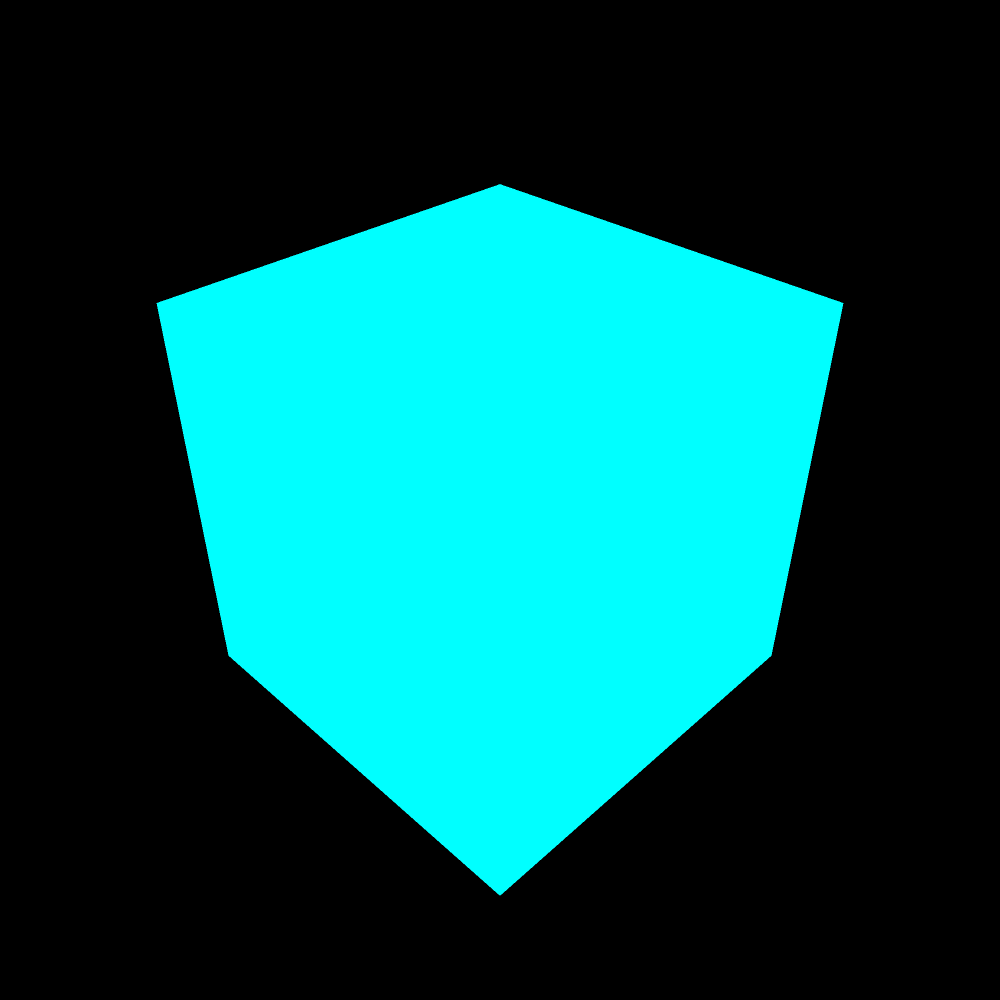
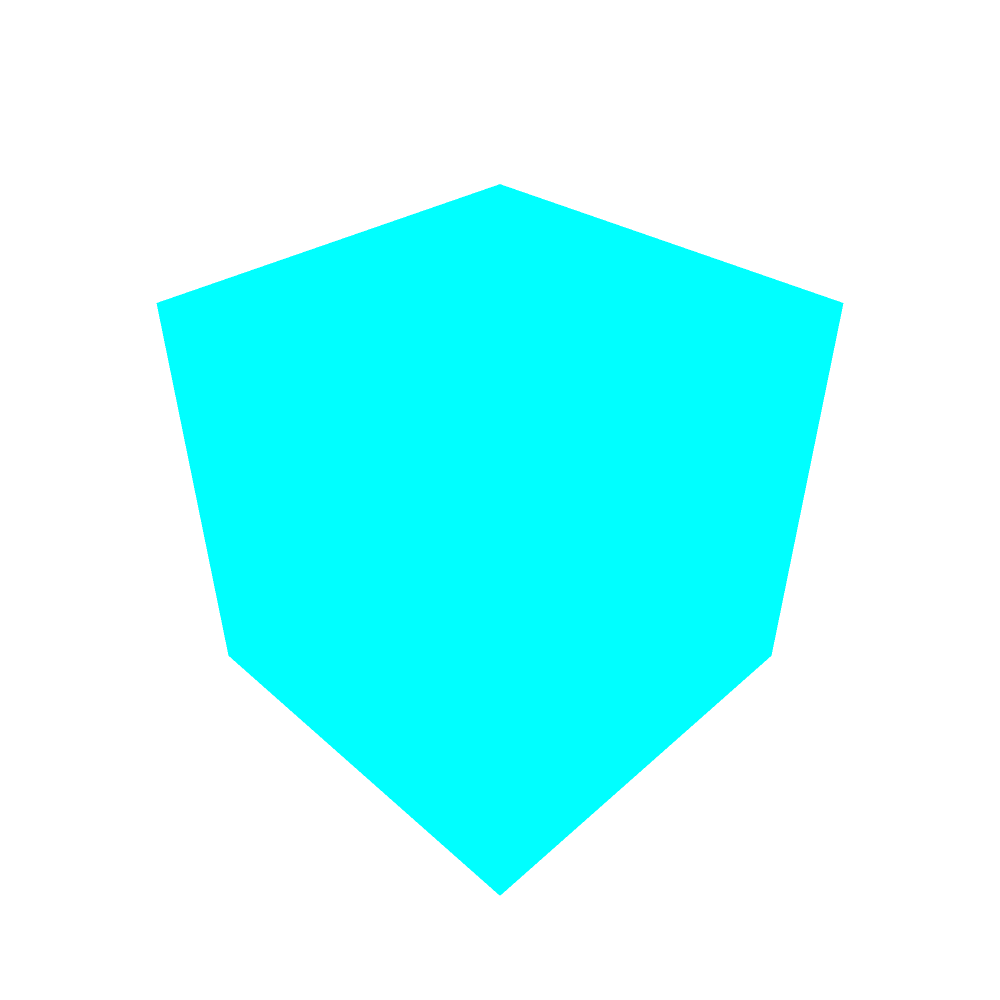
`0.0.4` Added basic scene options, color, transparency, animated

diff --git a/src/class/render.ts b/src/class/render.ts
@@ -16,19 +16,31 @@ export interface RenderOptions {
     frames?: number,
     delay?: number,
     repeat?: boolean
+  },
+  renderOptions?: {
+    port?: number,
+    background?: {
+      transparent?: boolean;
+      color?: number;
+    }
   }
 }
 
 export class Render {
   private readonly verbose: boolean = process.env.DEV === "true";
+  private readonly screenshotHeight = 1000;
+  private readonly screenshotWidth = this.screenshotHeight;
+  private readonly outputDir: string = path.join(__dirname, "../../output/");
+
   private doGIF: boolean = false;
   private GIFframes: number = 60;
   private GIFDelay: number = 5;
   private GIFRepeat: boolean = true;
-  private readonly screenshotHeight = 1000;
-  private readonly screenshotWidth = this.screenshotHeight;
 
-  private readonly outputDir: string = path.join(__dirname, "../../output/");
+  private background: number = 0x000000;
+  private isTransparent: boolean = false;
+
+  private port: number = 40;
 
   constructor() {
     this.checkDir(this.outputDir);
@@ -43,11 +55,16 @@ export class Render {
         if (options.gifOptions.delay) this.GIFDelay = options.gifOptions.delay;
         if (options.gifOptions.repeat) this.GIFRepeat = options.gifOptions.repeat;
       }
-    }
 
-    else {
-      this.doGIF = false;
-    }
+      if (options.renderOptions) {
+        if (options.renderOptions.port) this.port = options.renderOptions.port;
+        if (options.renderOptions.background) {
+          if (options.renderOptions.background.color !== undefined) this.background = options.renderOptions.background.color;
+          if (options.renderOptions.background.transparent !== undefined) this.isTransparent = options.renderOptions.background.transparent;
+        }
+      }
+
+    } else this.doGIF = false;
 
     this.run();
   }
@@ -60,20 +77,22 @@ export class Render {
   }
 
   private async run() {
-    const port: number = 40;
-
     /* Launch server */
     const server = http.createServer((req: http.IncomingMessage, res: http.ServerResponse) => handler(req, res));
-    server.listen(port, async () => {
+    server.listen(this.port, async () => {
       
       /* Launch pupeteer with WebGL support in Linux */
-      const browser = new Browser({ port: port, verbose: true });
+      const browser = new Browser({ port: this.port, verbose: true, headless: true });
       await browser.launch();
-      await browser.loadPage(`/src/html/cube?animated=${this.doGIF}`);
-      await browser.evaluatePage();
+      await browser.loadPage(`/src/page`);
+      await browser.evaluatePage({ 
+        animated: this.doGIF, 
+        background: this.background, 
+        transparent: this.isTransparent 
+      });
 
       if (this.doGIF) await this.renderAsGIF(browser);
-      else if (!this.doGIF) await this.renderAsPNG(browser);
+      else await this.renderAsPNG(browser);
 
       browser.stop();
       server.close();
@@ -87,6 +106,7 @@ export class Render {
     const encoder = new GIFEncoder(this.screenshotWidth, this.screenshotHeight);
     encoder.start();
     encoder.setRepeat(this.GIFRepeat === true ? 0 : -1);
+    encoder.setTransparent(0);
     encoder.setDelay(this.GIFDelay);
 
     const canvas = Canvas.createCanvas(this.screenshotWidth, this.screenshotHeight);
@@ -105,7 +125,9 @@ export class Render {
         canvas.width, canvas.height	// dWidth, dHeight
       );
 
-      encoder.addFrame(context as CanvasRenderingContext2D);
+      // remove white pixel when transparent is enabled
+      if (this.isTransparent) encoder.addFrame(this.readdTransparency(context) as CanvasRenderingContext2D);
+      else encoder.addFrame(context as CanvasRenderingContext2D);
     }
 
     encoder.finish();
@@ -116,8 +138,38 @@ export class Render {
 
   private async renderAsPNG(browser: Browser) {
     const outputPath: string = path.join(this.outputDir, "file.png");
-    await browser.takeScreenshot(outputPath);
+
+    if (!this.isTransparent) await browser.takeScreenshot(outputPath);
+    else {
+      const canvas = Canvas.createCanvas(this.screenshotWidth, this.screenshotHeight);
+      let context = canvas.getContext('2d');
+      const screenshot = await Canvas.loadImage(await browser.takeScreenshot());
+      
+      context.drawImage(
+        screenshot,				    			// image
+        0, canvas.height,           // sx, sy
+        canvas.width, canvas.width,	// sWidth, sHeight
+        0, 0,												// dx, dy
+        canvas.width, canvas.height	// dWidth, dHeight
+      );
+
+      context = this.readdTransparency(context);
+      fs.writeFileSync(outputPath, canvas.toBuffer('image/png'));
+    }
 
     if (this.verbose) console.log(`${success}PNG file generated: ${outputPath}`);
+  }
+
+  private readdTransparency(context: Canvas.CanvasRenderingContext2D): Canvas.CanvasRenderingContext2D {
+    let screenData: Canvas.ImageData = context.getImageData(0, 0, this.screenshotWidth, this.screenshotHeight);
+    let pix: Uint8ClampedArray = screenData.data;
+    
+    for (let i:number = 0, n = pix.length; i < n; i+=4) {
+      let r: number = pix[i]; let g: number = pix[i+1]; let b: number = pix[i+2];
+      if (r === 255 && g === 255 && b === 255) pix[i+3] = 0;
+    }
+
+    context.putImageData(screenData, 0, 0);
+    return context;
   }
 }

diff --git a/src/class/browser.ts b/src/class/browser.ts
@@ -1,12 +1,7 @@
 import puppeteer, { Browser as PBrowser, ConsoleMessage, HTTPResponse, Page } from "puppeteer";
 import { err, info, warning } from "utils/chalk";
-import fs from "fs";
-
-/*
- * Typescript moment (colorized):
- */
-let window: any;
-let performance: any;
+import { waitUntil } from "evaluate/waitUntil";
+import { setTHREEOptions } from "evaluate/setTHREEOptions";
 
 export class Browser {
   private readonly networkTimeout: number = 6000; 
@@ -29,10 +24,10 @@ export class Browser {
    * 
    * @param options 
    */
-  constructor(options: {port: number, headless?: boolean, verbose?: boolean}) {
+  constructor(options: { port: number, headless?: boolean, verbose?: boolean }) {
     this.port = options.port;
-    if (options.headless) this.headless = options.headless;
-    if (options.verbose) this.verbose = options.verbose;
+    if (options.headless !== undefined) this.headless = options.headless;
+    if (options.verbose !== undefined) this.verbose = options.verbose;
   }
 
   /**
@@ -100,13 +95,15 @@ export class Browser {
    * @returns {@Browser}
    */
   public async loadPage(path: string, loop?: number): Promise<Browser> {
+    if (!loop) loop = 1;
+
     try {
       await this.page.goto(`http://localhost:${this.port}/${path}`, {
         waitUntil: 'networkidle2',
         timeout: this.networkTimeout * (loop ? loop : 1)
       })
     } catch (_err) { // timeout exceeded
-      if (this.verbose) console.log(`${warning} Network timeout exceeded for file (attempt: ${loop}) ${path}`);
+      if (this.verbose) console.log(`${warning}Network timeout exceeded for file (attempt: ${loop}) ${path}`);
       this.loadPage(path, loop++).catch(console.error);
     }
 
@@ -116,39 +113,32 @@ export class Browser {
   /**
    * 
    * @param loop 
+   */
+  private async evaluateWaitLoad(loop?: number) {
+    try {
+      if (this.verbose) console.log(`${info}${(loop ? loop : 1)} attempt(s)...`);
+      await this.page.evaluate(waitUntil, {
+        pageSize: this.pageSize,
+        pageSizeMinTax: this.pageSizeMinTax,
+        pageSizeMaxTax: this.pageSizeMaxTax,
+        networkTax: this.networkTax,
+        attempts: (loop ? loop : 1)
+      })
+    } catch {
+      if (loop < 10) this.evaluateWaitLoad(loop++);
+      else console.error(`${err}Too much attempts!`);
+    }
+  }
+
+  /**
+   * 
+   * @param loop 
    * @returns {Browser}
    */
-  public async evaluatePage(loop?: number): Promise<Browser> {
-    try {
-      await this.page.evaluate(async (pageSize: number, pageSizeMinTax: number, pageSizeMaxTax: number, networkTax: number, renderTimeout: number, attempts: number, verbose: boolean) => {
-        if (this.verbose) console.log(`${info}First attempt...`);
-        let resourcesSize = Math.min(1, (pageSize / 1024 / 1024 - pageSizeMinTax) / pageSizeMaxTax);
-        await new Promise((resolve) => setTimeout(resolve, networkTax * resourcesSize * attempts))
-
-        window.chromeRenderStarted = true;
-        await new Promise((resolve) => {
-          if (typeof performance.wow === "undefined") performance.wow === performance.now;
-
-          let renderStart = performance.wow();
-          let waitingLoop = setInterval(() => {
-            let renderExceeded = (performance.wow() - renderStart > renderTimeout * attempts);
-
-            if (window.chromeRenderFinished || renderExceeded) {
-              if (renderExceeded && verbose) console.log(`${warning}Render timeout exceeded...`);
-              clearInterval(waitingLoop);
-              resolve(null);
-            }
-          }, 0);
-
-        });
-
-      }, this.pageSize, this.pageSizeMinTax, this.pageSizeMaxTax, this.networkTax, this.renderTimeout, (loop ? loop : 1), this.verbose);
-
-    } catch (err) {
-      if (this.verbose) console.log(`${info}Another attempt...`);
-      await new Promise((resolve) => setTimeout(resolve, this.networkTimeout * loop++));
-    }
-
+  public async evaluatePage(options: any): Promise<Browser> {
+    await this.page.evaluate(setTHREEOptions, options);
+    await this.evaluateWaitLoad();
+  
     return this;
   }
 

diff --git a/src/page.html b/src/page.html
@@ -17,34 +17,44 @@
     <script type="module">
       import * as THREE from "https://cdn.skypack.dev/three@0.125.2/build/three.module.js";
 
-      const scene = new THREE.Scene();
-      scene.rotation.y = (135 * Math.PI) / 180;
-      scene.rotation.x = 0.625;
+      /** variables controlled by puppeteer */
+      window.animated = false;
+      window.background = 0x000000;
+      window.transparent = false;
+      window.size = 1000;
+      // ----
 
-      const camera = new THREE.PerspectiveCamera(50, 1, 1, 1000);
+      window.scene = new THREE.Scene();
+      window.scene.rotation.y = (135 * Math.PI) / 180;
+      window.scene.rotation.x = 0.625;
+
+      window.camera = new THREE.PerspectiveCamera(50, 1, 1, 1000);
       camera.position.set(0, 0, 2.5);
 
-      const renderer = new THREE.WebGLRenderer({
+      window.renderer = new THREE.WebGLRenderer({
+        alpha: true,
         antialias: false,
         preserveDrawingBuffer: true,
       });
-      renderer.setPixelRatio(2);
-      renderer.setSize(1000, 1000);
-      document.body.appendChild(renderer.domElement);
+
+      document.body.appendChild(window.renderer.domElement);
 
       const geometry = new THREE.BoxGeometry();
       const material = new THREE.MeshBasicMaterial({ color: 0x00ffff });
       const cube = new THREE.Mesh(geometry, material);
-      scene.add(cube);
+      window.scene.add(cube);
 
       function animate() {
-        renderer.render(scene, camera);
+        window.renderer.setPixelRatio(2);
+        window.renderer.setSize(window.size, window.size);
+        window.renderer.setClearColor(window.background, window.transparent ? 0 : 1);
 
-        const animated = window.location.search.replace("?animated=", "");
-        if (animated === "true") {
+        window.renderer.render(window.scene, window.camera);
+        requestAnimationFrame(animate);
+
+        if (window.animated === true) {
           cube.rotation.x += 0.01;
           cube.rotation.y += 0.01;
-          requestAnimationFrame(animate);
         }
       }
       animate();

diff --git a/src/evaluate/setTHREEOptions.ts b/src/evaluate/setTHREEOptions.ts
@@ -1,0 +1,16 @@
+
+declare global {
+  interface Window {
+    animated: boolean;
+    background: number; // hex value
+    transparent: boolean;
+  }    
+}
+
+export const setTHREEOptions = async (options: Window) => {
+  if (options.animated) window.animated = options.animated;
+  if (options.background) window.background = options.background;
+  if (options.transparent) window.transparent = options.transparent;
+
+  await new Promise((resolve) => setTimeout(resolve, 1000));
+}

diff --git a/src/evaluate/waitUntil.ts b/src/evaluate/waitUntil.ts
@@ -1,0 +1,12 @@
+
+export const waitUntil = async (options: {
+  pageSize: number,
+  pageSizeMinTax: number,
+  pageSizeMaxTax: number,
+  networkTax: number,
+  attempts: number
+}) => {
+  let resourcesSize = Math.min(1, (options.pageSize / 1024 / 1024 - options.pageSizeMinTax) / options.pageSizeMaxTax);
+  await new Promise((resolve) => setTimeout(resolve, options.networkTax * resourcesSize * options.attempts));
+}
+

diff --git a/src/index.ts b/src/index.ts
@@ -1,4 +1,12 @@
 import { Render } from "class/render";
+import { info } from "utils/chalk";
 
+console.log(`${info}Running...`)
 const r = new Render();
-r.render({ type: "gif" });
+r.render({
+  type: "gif",
+  renderOptions: {
+    port: 44,
+    background: { transparent: true },
+  }
+});
